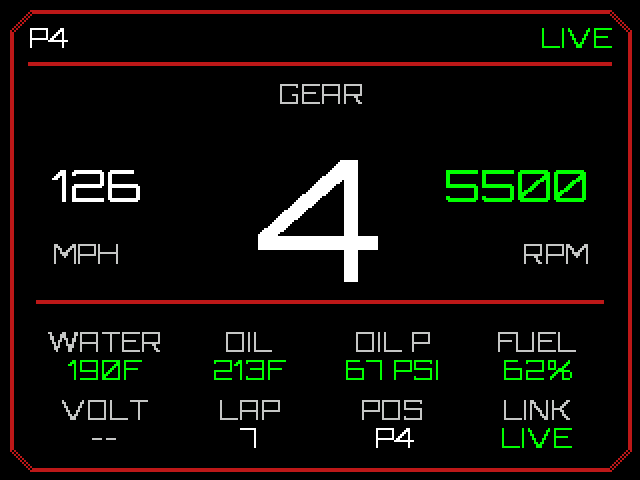
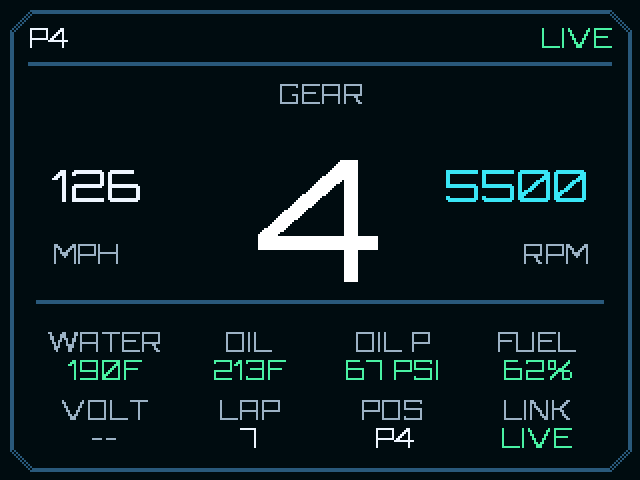
Show the BRC-02 layouts in the BORGAS palette
The four layout renders on the BRC-02 page were red-on-black with a pure
green rev ring: the firmware's look before the dash moved to the unified
palette. Next to the navy product render on the same page they read as a
different product. The firmware now paints the dash in the BORGAS palette
(brc02-os cd93ac4), and these are its renderer's output for the same four
layouts with the same demonstration values, so the page shows what the
board draws.

diff --git a/docs/ASSET_REGISTER.md b/docs/ASSET_REGISTER.md
@@ -10,3 +10,5 @@ Missing: current BRC-02 product photos or authoritative CAD renders, connectors/
 2026-09-13: Added BPS-01 and BFD-01 product-render-v1.webp, generated with the built-in image tool from owner-supplied hardware photos. Recolored navy/violet/cyan at owner request; BFD isolated from battery and cables, USB-C corrected per owner. Illustrative renders, not photos or a promise of available enclosure colors. Originals retained in the local image-generation output; website copies compressed as WebP.
 
 2026-09-13: Added BRC-FL and BRC-02 product-render-v1.webp from owner-supplied photos using built-in image generation. Navy/violet/cyan palette matches the diagnostic renders. Stands, cables and surrounding rig removed. BRC-FL shows one physical module; BRC-02 displays illustrative lighting with red/green lap panels and current BORGAS naming.
+
+2026-09-14: Replaced the four BRC-02 layout-*.png renders. Regenerated by the firmware's own renderer (tools/RenderLayoutPreviews.exe in brc02-os, commit cd93ac4) after the dash moved to the BORGAS unified palette: navy canvas, steel-blue frame, cyan rev band, mint/amber/coral readings. Same demonstration values as before; the previous red-on-black renders predated the palette and sat wrong beside the navy product render.
